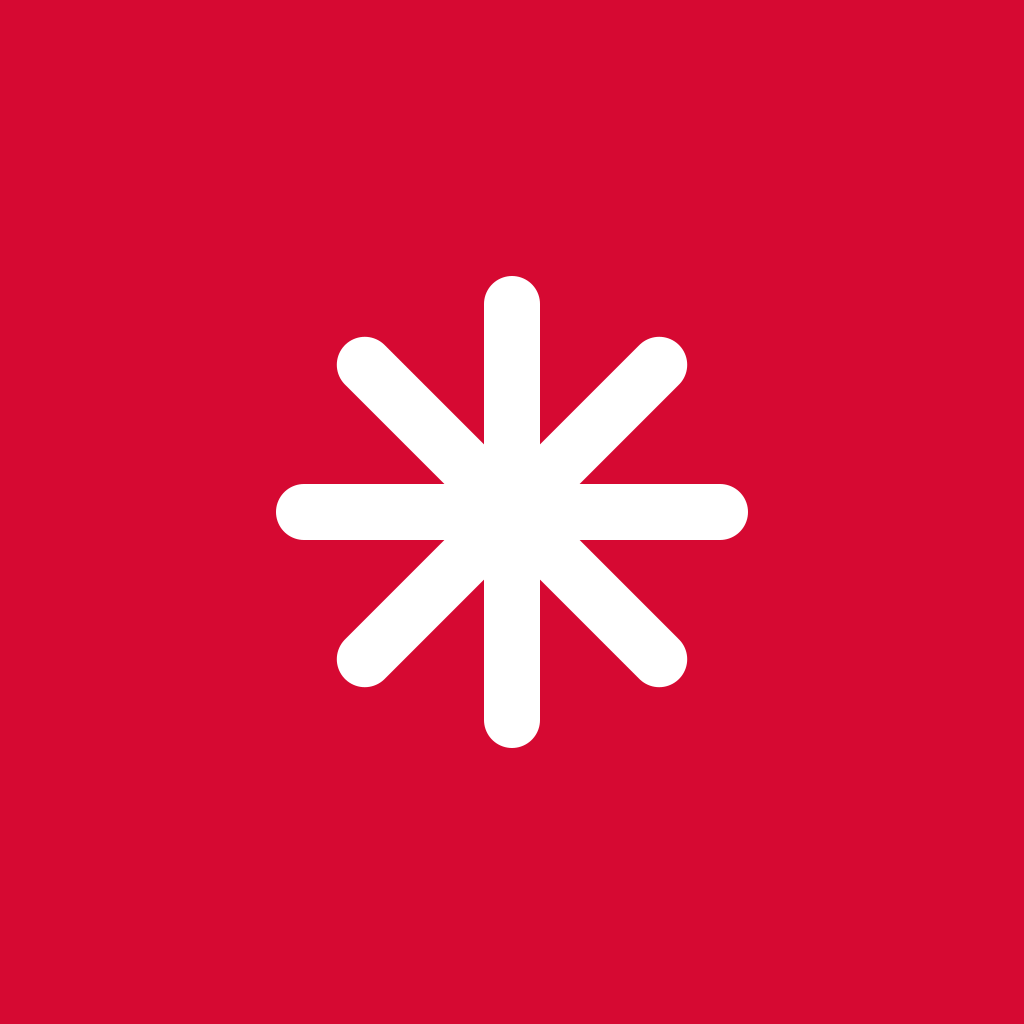
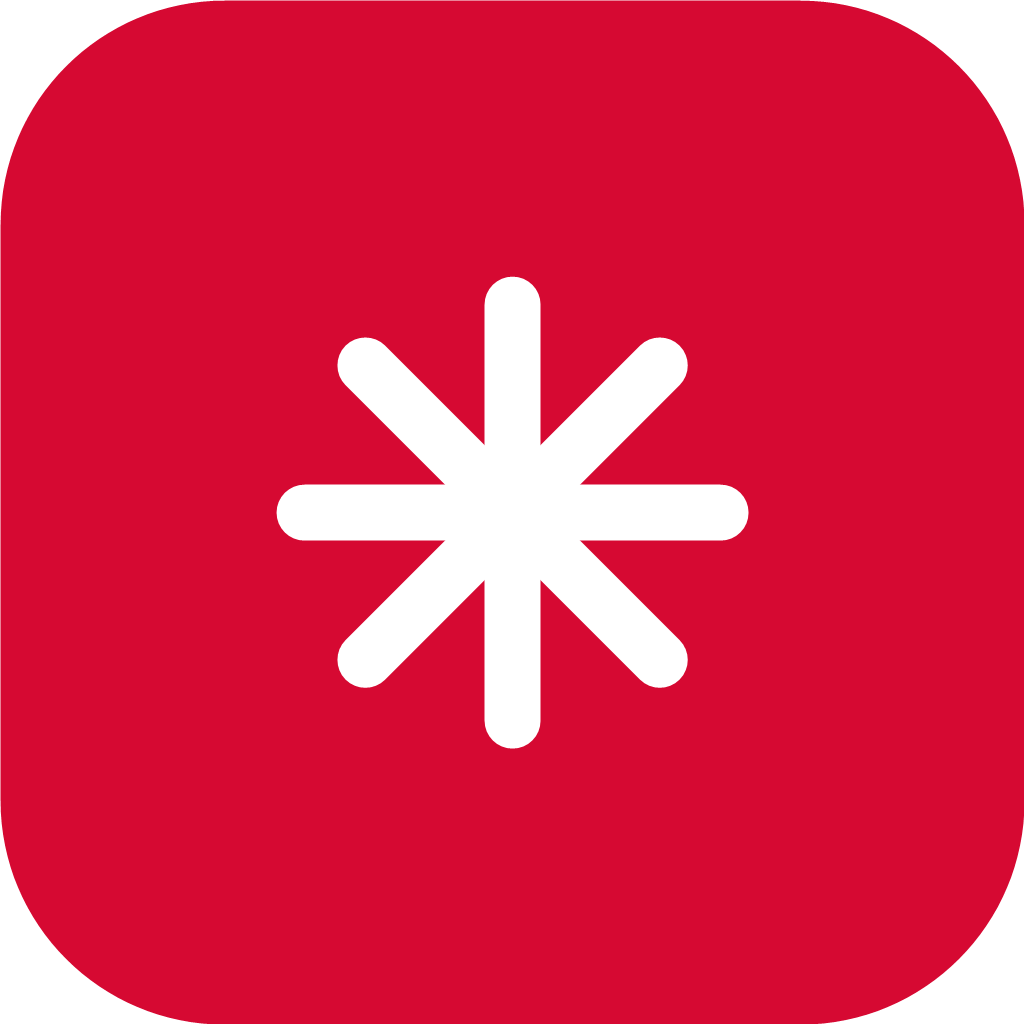
Refactor format selection UI: replace modal with dropdown, enhance accessibility, and update related tests

diff --git a/musicload/web/templates/index.html b/musicload/web/templates/index.html
@@ -1,20 +1,21 @@
+{% set asset_version = version ~ "-ui-20261117-4" %}
 <!doctype html>
 <html lang="en">
   <head>
     <meta charset="UTF-8" />
     <meta name="viewport" content="width=device-width, initial-scale=1, viewport-fit=cover" />
     <title>Musicload</title>
-    <link rel="icon" type="image/png" href="/static/favicon.png" />
-    <link rel="apple-touch-icon" href="/static/apple-touch-icon.png" />
-    <link rel="manifest" href="/static/manifest.json" />
+    <link rel="icon" type="image/png" href="/static/favicon.png?v={{ asset_version }}" />
+    <link rel="apple-touch-icon" href="/static/apple-touch-icon.png?v={{ asset_version }}" />
+    <link rel="manifest" href="/static/manifest.json?v={{ asset_version }}" />
     <meta name="theme-color" content="#ffffff" media="(prefers-color-scheme: light)" />
     <meta name="theme-color" content="#161617" media="(prefers-color-scheme: dark)" />
     <!-- iOS/iPadOS: use the full screen when launched from the Home Screen. -->
     <meta name="apple-mobile-web-app-capable" content="yes" />
     <meta name="apple-mobile-web-app-status-bar-style" content="black-translucent" />
     <meta name="apple-mobile-web-app-title" content="Musicload" />
-    <link rel="stylesheet" href="/static/style.css?v={{ version }}" />
-    <link rel="stylesheet" href="/static/design.css?v={{ version }}" />
+    <link rel="stylesheet" href="/static/style.css?v={{ asset_version }}" />
+    <link rel="stylesheet" href="/static/design.css?v={{ asset_version }}" />
   </head>
   <body>
     <a class="skip-link" href="#main-content">Skip to content</a>
@@ -119,11 +120,18 @@
             &times;
           </button>
         </div>
-        <button id="format-selector-button" class="format-selector format-selector-button" type="button"
-          aria-label="Choose audio format" aria-haspopup="dialog" aria-controls="format-modal">
-          <span id="format-selector-label">Opus</span>
-          <span class="format-selector-chevron" aria-hidden="true">⌄</span>
-        </button>
+        <div class="format-control">
+          <button id="format-selector-button" class="format-selector format-selector-button" type="button"
+            aria-label="Choose audio format" aria-haspopup="listbox" aria-expanded="false" aria-controls="format-dropdown">
+            <span id="format-selector-label">Opus</span>
+            <span class="format-selector-chevron" aria-hidden="true">⌄</span>
+          </button>
+          <div id="format-dropdown" class="format-dropdown" role="listbox" aria-label="Audio format" hidden>
+            <button type="button" class="format-option" data-format="opus" role="option" aria-selected="true" tabindex="-1">Opus</button>
+            <button type="button" class="format-option" data-format="mp3" role="option" aria-selected="false" tabindex="-1">MP3</button>
+            <button type="button" class="format-option" data-format="flac" role="option" aria-selected="false" tabindex="-1">FLAC</button>
+          </div>
+        </div>
         <button type="submit">Search</button>
       </form>
       <div id="app-status" class="status" role="status" aria-live="polite" hidden></div>
@@ -377,41 +385,13 @@
       </div>
     </div>
 
-    <div id="format-modal" class="modal format-modal" role="dialog" aria-modal="true" aria-labelledby="format-modal-title">
-      <div class="modal-content format-modal-content">
-        <div class="modal-header">
-          <div>
-            <h2 id="format-modal-title">Audio format</h2>
-            <p>Choose the file format for new downloads.</p>
-          </div>
-          <button id="format-modal-close" class="modal-close" aria-label="Close format selection">&times;</button>
-        </div>
-        <div class="modal-body">
-          <div class="format-options" role="radiogroup" aria-label="Audio format">
-            <button type="button" class="format-option" data-format="opus" role="radio" aria-checked="false">
-              <span><strong>Opus</strong><small>Compact files with excellent quality</small></span>
-              <span class="format-option-check" aria-hidden="true">✓</span>
-            </button>
-            <button type="button" class="format-option" data-format="mp3" role="radio" aria-checked="false">
-              <span><strong>MP3</strong><small>Best compatibility with most players</small></span>
-              <span class="format-option-check" aria-hidden="true">✓</span>
-            </button>
-            <button type="button" class="format-option" data-format="flac" role="radio" aria-checked="false">
-              <span><strong>FLAC</strong><small>Lossless audio with larger files</small></span>
-              <span class="format-option-check" aria-hidden="true">✓</span>
-            </button>
-          </div>
-        </div>
-      </div>
-    </div>
-
-    <script src="/static/app-core.js?v={{ version }}" data-is-admin="{{ is_admin | tojson }}" data-default-audio-format="{{ default_audio_format }}" defer></script>
-    <script src="/static/app-search.js?v={{ version }}" defer></script>
-    <script src="/static/app-downloads.js?v={{ version }}" defer></script>
-    <script src="/static/app-settings.js?v={{ version }}" defer></script>
-    <script src="/static/app-explore.js?v={{ version }}" defer></script>
-    <script src="/static/app-library.js?v={{ version }}" defer></script>
-    <script src="/static/app-text.js?v={{ version }}" defer></script>
-    <script src="/static/app-init.js?v={{ version }}" defer></script>
+    <script src="/static/app-core.js?v={{ asset_version }}" data-is-admin="{{ is_admin | tojson }}" data-default-audio-format="{{ default_audio_format }}" defer></script>
+    <script src="/static/app-search.js?v={{ asset_version }}" defer></script>
+    <script src="/static/app-downloads.js?v={{ asset_version }}" defer></script>
+    <script src="/static/app-settings.js?v={{ asset_version }}" defer></script>
+    <script src="/static/app-explore.js?v={{ asset_version }}" defer></script>
+    <script src="/static/app-library.js?v={{ asset_version }}" defer></script>
+    <script src="/static/app-text.js?v={{ asset_version }}" defer></script>
+    <script src="/static/app-init.js?v={{ asset_version }}" defer></script>
   </body>
 </html>

diff --git a/musicload/web/static/app-core.js b/musicload/web/static/app-core.js
@@ -9,64 +9,97 @@ if ("serviceWorker" in navigator) {
   });
 }
 
-// Format management
+// Format management: an anchored dropdown, without a modal or page overlay.
 const formatSelector = document.getElementById("format-selector");
 const formatSelectorButton = document.getElementById("format-selector-button");
 const formatSelectorLabel = document.getElementById("format-selector-label");
-const formatModal = document.getElementById("format-modal");
-const formatModalClose = document.getElementById("format-modal-close");
+const formatDropdown = document.getElementById("format-dropdown");
+const formatOptions = [...(formatDropdown?.querySelectorAll(".format-option") || [])];
 const serverDefaultAudioFormat = appScript.dataset.defaultAudioFormat;
 
 function renderFormatSelection() {
-  const selectedOption = formatSelector.options[formatSelector.selectedIndex];
-  formatSelectorLabel.textContent = selectedOption?.textContent || "Opus";
-  document.querySelectorAll(".format-option").forEach((button) => {
-    const isSelected = button.dataset.format === formatSelector.value;
-    button.classList.toggle("selected", isSelected);
-    button.setAttribute("aria-checked", String(isSelected));
+  formatSelectorLabel.textContent = formatSelector.options[formatSelector.selectedIndex]?.textContent || "Opus";
+  formatOptions.forEach((button) => {
+    button.setAttribute("aria-selected", String(button.dataset.format === formatSelector.value));
   });
 }
 
 function initFormat() {
-  const savedFormat = localStorage.getItem("audioFormat") || serverDefaultAudioFormat || "opus";
-  formatSelector.value = savedFormat;
+  let savedFormat;
+  try {
+    savedFormat = localStorage.getItem("audioFormat");
+  } catch {
+    // Browser privacy settings may disable storage, including in installed PWAs.
+  }
+  formatSelector.value = savedFormat || serverDefaultAudioFormat || "opus";
   if (!formatSelector.value) formatSelector.value = "opus";
   renderFormatSelection();
 }
 
 function saveFormat() {
-  localStorage.setItem("audioFormat", formatSelector.value);
+  try {
+    localStorage.setItem("audioFormat", formatSelector.value);
+  } catch {
+    // Keep the selected format for this page even when it cannot be persisted.
+  }
   renderFormatSelection();
 }
 
-function openFormatModal() {
-  renderFormatSelection();
-  formatModal.classList.add("active");
-  formatModal.querySelector(".format-option.selected")?.focus();
-}
-
-function closeFormatModal({ restoreFocus = true } = {}) {
-  formatModal.classList.remove("active");
+function closeFormatDropdown(restoreFocus = false) {
+  if (!formatDropdown) return;
+  formatDropdown.hidden = true;
+  formatSelectorButton.setAttribute("aria-expanded", "false");
   if (restoreFocus) formatSelectorButton.focus();
 }
 
+function openFormatDropdown() {
+  if (!formatDropdown) return;
+  formatDropdown.hidden = false;
+  formatSelectorButton.setAttribute("aria-expanded", "true");
+  formatOptions.find((button) => button.dataset.format === formatSelector.value)?.focus();
+}
+
 formatSelector.addEventListener("change", saveFormat);
-formatSelectorButton.addEventListener("click", openFormatModal);
-formatModalClose.addEventListener("click", () => closeFormatModal());
-formatModal.addEventListener("click", (event) => {
-  if (event.target === formatModal) closeFormatModal();
+formatSelectorButton.addEventListener("click", () => {
+  if (formatDropdown?.hidden) openFormatDropdown();
+  else closeFormatDropdown();
 });
-formatModal.querySelectorAll(".format-option").forEach((button) => {
+formatSelectorButton.addEventListener("keydown", (event) => {
+  if (["ArrowDown", "ArrowUp"].includes(event.key)) {
+    event.preventDefault();
+    openFormatDropdown();
+  }
+});
+formatOptions.forEach((button) => {
   button.addEventListener("click", () => {
     formatSelector.value = button.dataset.format;
     saveFormat();
-    closeFormatModal();
+    closeFormatDropdown(true);
   });
 });
-document.addEventListener("keydown", (event) => {
-  if (event.key === "Escape" && formatModal.classList.contains("active")) {
-    closeFormatModal();
+formatDropdown?.addEventListener("keydown", (event) => {
+  const index = formatOptions.indexOf(document.activeElement);
+  let next;
+  if (event.key === "ArrowDown") next = (index + 1) % formatOptions.length;
+  if (event.key === "ArrowUp") next = (index - 1 + formatOptions.length) % formatOptions.length;
+  if (event.key === "Home") next = 0;
+  if (event.key === "End") next = formatOptions.length - 1;
+  if (next !== undefined) {
+    event.preventDefault();
+    formatOptions[next].focus();
   }
+});
+document.addEventListener("click", (event) => {
+  if (!formatSelectorButton.parentElement.contains(event.target)) closeFormatDropdown();
+});
+document.addEventListener("keydown", (event) => {
+  if (event.key === "Escape" && formatDropdown && !formatDropdown.hidden) {
+    event.preventDefault();
+    closeFormatDropdown(true);
+  }
+});
+formatSelectorButton.parentElement.addEventListener("focusout", (event) => {
+  if (!formatSelectorButton.parentElement.contains(event.relatedTarget)) closeFormatDropdown();
 });
 initFormat();
 

diff --git a/musicload/web/static/design.css b/musicload/web/static/design.css
@@ -66,10 +66,10 @@ main:focus { outline: none; }
 header { width: 232px; padding: 32px 16px; background: var(--sidebar-bg); }
 .header-title { padding: 0 10px 38px; }
 header h1 { flex-wrap: wrap; gap: 9px; font-size: 19px; letter-spacing: -.6px; }
-header h1 .brand-mark { width: 30px; height: 30px; }
+header h1 .brand-mark { width: 30px; height: 30px; border-radius: 8px; }
 header h1 .version { border: 0; padding: 0; margin: 0 0 0 39px; font-size: 10px; }
 .header-controls { gap: 5px; }
-.icon-btn { border-radius: 9px; }
+.icon-btn { border-radius: 12px; }
 .header-controls > .icon-btn {
   min-height: 46px; height: auto; padding: 11px 13px;
   font-size: 14px !important; color: var(--text-secondary);
@@ -85,17 +85,35 @@ header h1 .version { border: 0; padding: 0; margin: 0 0 0 39px; font-size: 10px;
   position: static; flex-wrap: wrap; gap: 7px;
   margin-top: 32px; padding: 20px 8px 0; border-top: 1px solid var(--border-color);
 }
-.utility-controls .icon-btn { border: 0; border-radius: 9px; background: transparent; }
+.utility-controls .icon-btn { border: 0; border-radius: 12px; background: transparent; }
 .search-form {
   width: 100%; margin: 0 0 32px; padding: 6px;
   border-radius: 13px; background: var(--bg-secondary); box-shadow: none;
   display: grid; grid-template-columns: minmax(0, 1fr) auto auto; gap: 6px;
 }
 .search-input-wrapper { grid-column: 1; grid-row: 1; }
+.format-control { position: relative; grid-column: 2; grid-row: 1; align-self: center; }
+.search-form.local-search .format-control { display: none; }
+.format-dropdown {
+  position: absolute; z-index: 50; top: calc(100% + 10px); right: 0;
+  width: 140px; padding: 5px; border: 1px solid var(--border-color);
+  border-radius: 12px; background: var(--surface-raised); box-shadow: 0 8px 28px #0002;
+}
+.search-form .format-dropdown .format-option {
+  display: flex; align-items: center; justify-content: space-between;
+  width: 100%; min-height: 44px; padding: 10px 12px; border: 0; border-radius: 7px;
+  background: transparent; color: var(--text-primary); font-size: 14px; font-weight: 500;
+  text-align: left; box-shadow: none;
+}
+.search-form .format-dropdown .format-option:hover,
+.search-form .format-dropdown .format-option:focus-visible { background: var(--bg-tertiary); }
+.search-form .format-dropdown .format-option[aria-selected="true"] { color: var(--accent-primary); }
+.format-dropdown .format-option[aria-selected="true"]::after { content: "✓"; }
+.format-selector-button[aria-expanded="true"] .format-selector-chevron { transform: rotate(180deg); }
 .search-form .format-selector-button {
   grid-column: 2; grid-row: 1; min-height: 44px; height: 44px;
   min-width: 85px; padding: 0 12px; border: 0; border-left: 1px solid var(--border-color);
-  border-radius: 0; background: transparent; color: var(--text-secondary); font-size: 13px;
+  border-radius: 8px; background: transparent; color: var(--text-secondary); font-size: 13px;
 }
 .search-form .format-selector-button:hover { background: var(--bg-tertiary); }
 .search-form input { min-height: 44px; padding: 10px 46px 10px 12px !important; font-size: 15px; }

diff --git a/musicload/web/templates/login.html b/musicload/web/templates/login.html
@@ -1,12 +1,13 @@
+{% set asset_version = "ui-20261117-4" %}
 <!doctype html>
 <html lang="en">
   <head>
     <meta charset="UTF-8" />
     <meta name="viewport" content="width=device-width, initial-scale=1, viewport-fit=cover" />
     <title>Sign in · Musicload</title>
-    <link rel="icon" type="image/png" href="/static/favicon.png" />
-    <link rel="stylesheet" href="/static/style.css" />
-    <link rel="stylesheet" href="/static/design.css" />
+    <link rel="icon" type="image/png" href="/static/favicon.png?v={{ asset_version }}" />
+    <link rel="stylesheet" href="/static/style.css?v={{ asset_version }}" />
+    <link rel="stylesheet" href="/static/design.css?v={{ asset_version }}" />
   </head>
   <body class="login-page">
     <main class="login-card">

diff --git a/musicload/web/static/app-downloads.js b/musicload/web/static/app-downloads.js
@@ -20,11 +20,20 @@ function scheduleQueuePoll(delay = 2000) {
 
 function initQueue() {
   if (eventSource) eventSource.close();
+  eventSource = null;
   if (queueReconnectTimer) clearTimeout(queueReconnectTimer);
   clearQueuePoll();
 
   // Connect to SSE endpoint for real-time updates
-  const source = new EventSource("/api/queue/stream");
+  let source;
+  try {
+    source = new EventSource("/api/queue/stream");
+  } catch {
+    // Browsers may block streaming; polling must not prevent the page starting.
+    fetchQueue();
+    scheduleQueuePoll();
+    return;
+  }
   eventSource = source;
 
   source.onmessage = (event) => {

diff --git a/musicload/web/static/app-search.js b/musicload/web/static/app-search.js
@@ -81,6 +81,7 @@ function updateSearchContext() {
   searchInput.setAttribute("aria-label", searchInput.placeholder);
   const isLocalSearch = currentTab === "library";
   formatSelectorButton.hidden = isLocalSearch;
+  closeFormatDropdown();
   searchForm.classList.toggle("local-search", isLocalSearch);
 }
 
